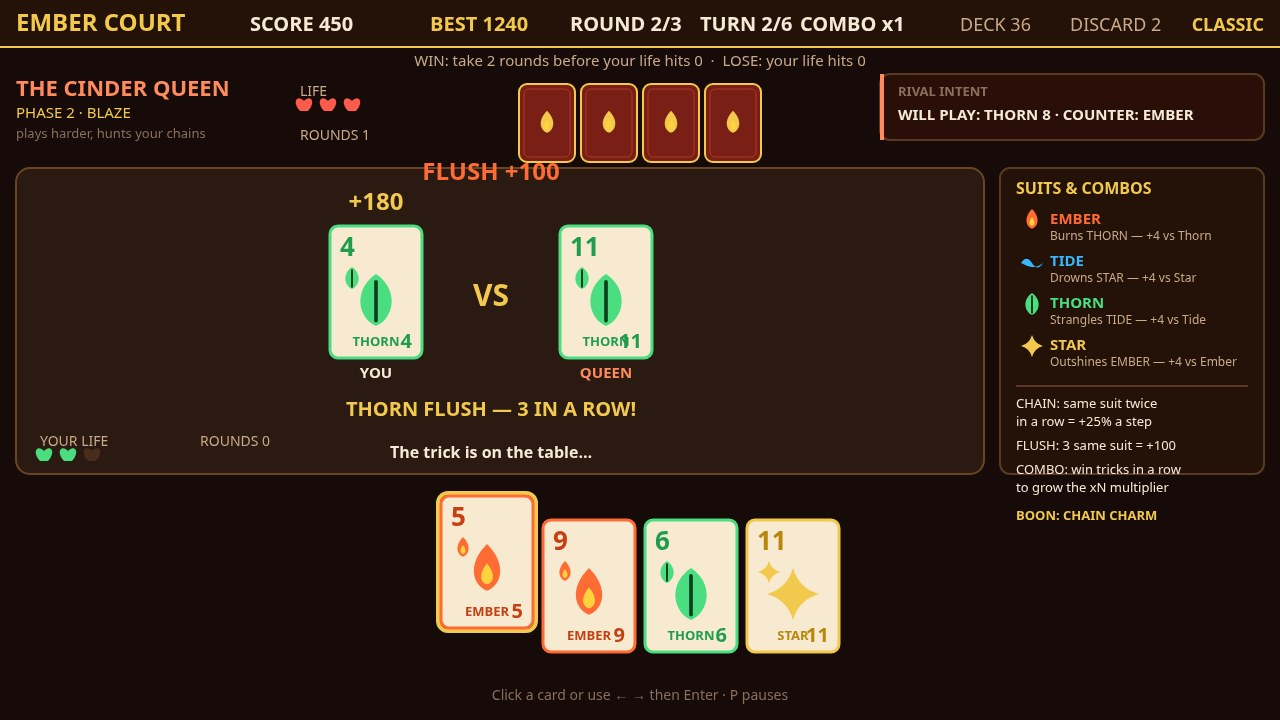
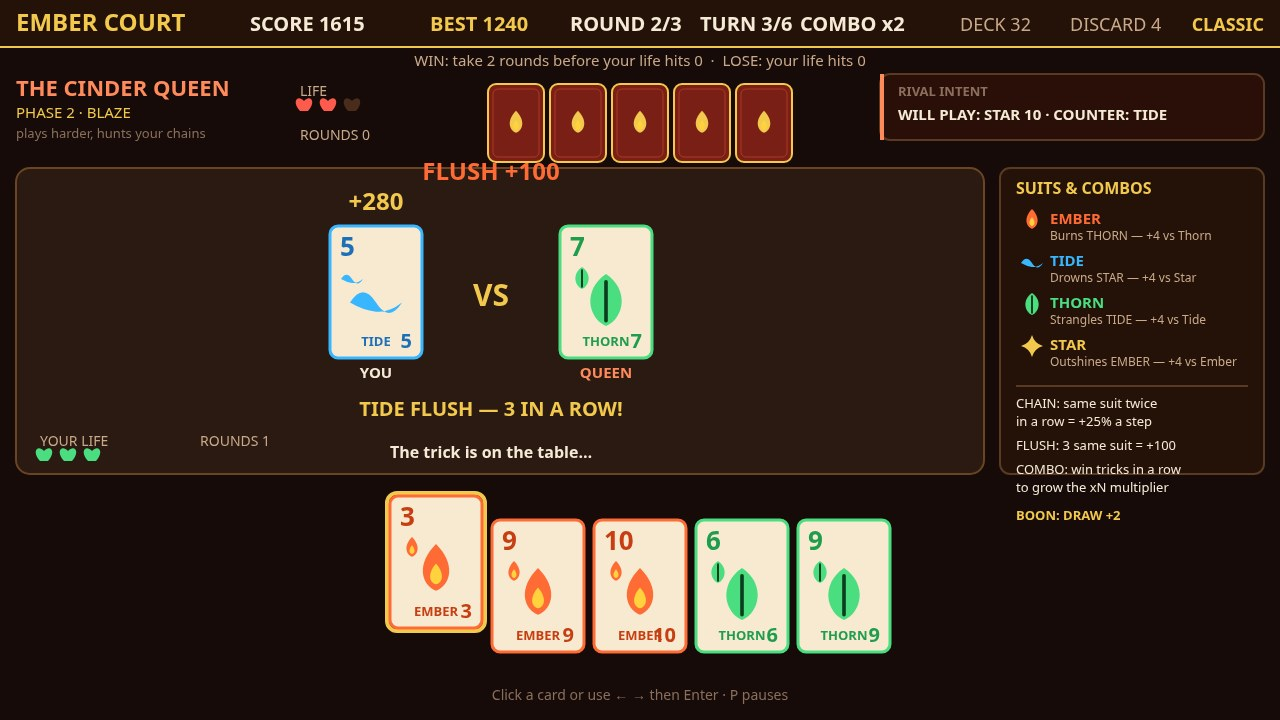
Round 3: combo x2 flush cover, flush-bearing win
Cover hunt: measured a combo>=2 flush in only ~8% of attempts, so 12
tries failed 37% of the time (round 2 shipped combo x1). Now 80 tries
tier 1 / 30 tier 2. Win staging: retry matches until one wins with a
flush (measured 3/20 wins carry one), first win kept as a snapshot
fallback. Cover now TIDE FLUSH combo x2, score 1615; win now 2400,
FLUSHES 1, NEW BEST.

diff --git a/game/src/shots.js b/game/src/shots.js
@@ -48,9 +48,12 @@ export function stageShot(name, driver, seed) {
     // tricks' popups stack and read as a glitch. A match can end before
     // the frame appears, so retry with fresh matches; the random stream
     // advances, so each attempt deals a different game. Tier 1 wants
-    // combo ≥ 2; tier 2 takes any flush.
-    const hunt = (minCombo) => {
-      for (let attempt = 0; attempt < 12; attempt += 1) {
+    // combo ≥ 2; tier 2 takes any flush. MEASURED (2026-11-22, 60 attempts):
+    // a combo ≥ 2 flush shows in only ~8% of attempts, so 12 tries failed
+    // 37% of the time — round 2's cover shipped combo x1. 80 tries makes
+    // tier 1 near-certain (~0.1% miss).
+    const hunt = (minCombo, tries) => {
+      for (let attempt = 0; attempt < tries; attempt += 1) {
         driver.newMatch('classic');
         for (let i = 0; i < 18 && driver.state.screen === 'play'; i += 1) {
           const before = driver.state.popups.length;
@@ -70,7 +73,7 @@ export function stageShot(name, driver, seed) {
       }
       return false;
     };
-    let staged = hunt(2) || hunt(1);
+    let staged = hunt(2, 80) || hunt(1, 30);
     if (!staged) {
       // Fallback: a plain winning-trick frame from a fresh match.
       driver.newMatch('classic');
@@ -95,13 +98,34 @@ export function stageShot(name, driver, seed) {
   if (name === 'loss' || name === 'win') {
     const style = name === 'win' ? 'best' : 'worst';
     const want = name === 'win' ? SCREEN_WIN : SCREEN_LOSS;
-    driver.newMatch('classic');
-    let guard = 0;
-    while (driver.state.screen !== want && guard < 300) {
-      guard += 1;
-      if (driver.state.screen === 'play') playTricks(driver, style, 6);
-      else if (driver.state.screen === 'draft') driver.chooseDraft(0);
-      else break;
+    // A win must show at least one flush: the scorecard footer prints
+    // FLUSHES from the match stats, and round 2's win showed FLUSHES 0.
+    // MEASURED (2026-11-22, 20 matches): 'best' wins 16/20, but only 3/20
+    // wins carry a flush — so retry fresh matches (30 tries, ~1% miss) and
+    // keep the first win as a snapshot fallback in case none does. The
+    // state is plain data, so structuredClone keeps the fallback intact
+    // while later matches overwrite it.
+    const playMatch = () => {
+      driver.newMatch('classic');
+      let guard = 0;
+      while (driver.state.screen !== want && guard < 300) {
+        guard += 1;
+        if (driver.state.screen === 'play') playTricks(driver, style, 6);
+        else if (driver.state.screen === 'draft') driver.chooseDraft(0);
+        else break;
+      }
+      return driver.state.screen === want;
+    };
+    let fallback = null;
+    if (name === 'win') {
+      for (let attempt = 0; attempt < 30; attempt += 1) {
+        if (!playMatch()) break;
+        if (!fallback) fallback = structuredClone(driver.state);
+        if (driver.state.stats.flushes >= 1) { fallback = null; break; }
+      }
+      if (fallback) Object.assign(driver.state, fallback);
+    } else {
+      playMatch();
     }
     driver.snap();
     // Make the scorecard coherent: a win beats the shown BEST, a loss does not.
